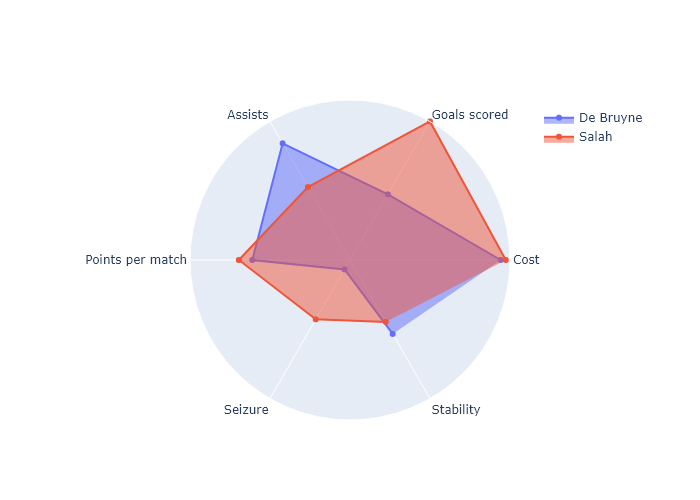
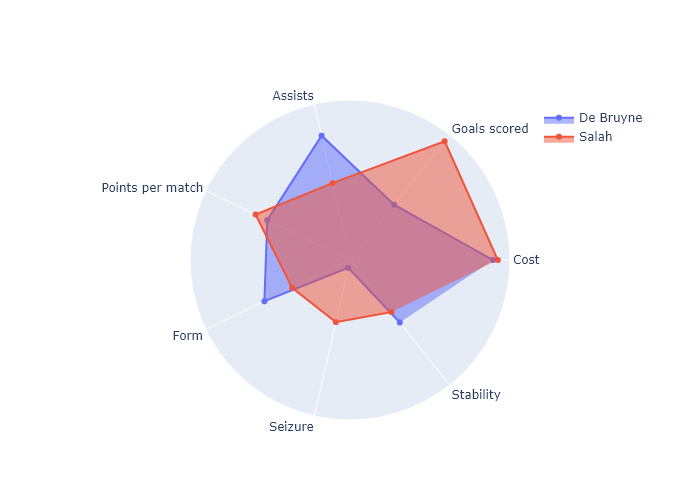
Radar plot update

diff --git a/Visualizing.py b/Visualizing.py
@@ -157,6 +157,10 @@ worst10_seizing_players = seizing_players.tail(10)
 
 # SECTION 2.b - HEAD 2 HEAD PLAYER COMPARISON
 
+# Define the two player name you want to compare
+name1 = 'De Bruyne'
+name2 = 'Salah'
+
 # Which player is better - player A or player B?
 # This question is answered by creating a radar plot comparing two players by multiple aspects
 
@@ -164,23 +168,24 @@ worst10_seizing_players = seizing_players.tail(10)
 categories = ['Cost',
               'Goals scored',
               'Assists',
-              'Points per match']
+              'Points per match',
+              'Form']
 
 # Create a new dataframe containing only the desired categories
 radar_data = CM_data[['Player'] + categories]
 
 # Create a list of each player stats
-De_Bruyne = radar_data[radar_data['Player'] == 'De Bruyne'].values.tolist()[0]
-Salah = radar_data[radar_data['Player'] == 'Salah'].values.tolist()[0]
+Player1 = radar_data[radar_data['Player'] == name1].values.tolist()[0]
+Player2 = radar_data[radar_data['Player'] == name2].values.tolist()[0]
 
 # Append two more values to each player's list, using the stats we produced earlier: Seizure and Stability
 # Seizure
-De_Bruyne.append(seizing_players['Seizure'][seizing_players['Player'] == 'De Bruyne'].values[0])
-Salah.append(seizing_players['Seizure'][seizing_players['Player'] == 'Salah'].values[0])
+Player1.append(seizing_players['Seizure'][seizing_players['Player'] == name1].values[0])
+Player2.append(seizing_players['Seizure'][seizing_players['Player'] == name2].values[0])
 
 # Stability
-De_Bruyne.append(stable_players['Stability'][stable_players.index == 'De Bruyne'].values[0]*10)
-Salah.append(stable_players['Stability'][stable_players.index == 'Salah'].values[0]*10)
+Player1.append(stable_players['Stability'][stable_players.index == name1].values[0]*10)
+Player2.append(stable_players['Stability'][stable_players.index == name2].values[0]*10)
 
 # Update the categories names
 categories = categories + ['Seizure', 'Stability']
@@ -188,22 +193,22 @@ categories = categories + ['Seizure', 'Stability']
 radar = go.Figure()
 
 radar.add_trace(go.Scatterpolar(
-                r=De_Bruyne[1:],
+                r=Player1[1:],
                 theta=categories,
                 fill='toself',
-                name=De_Bruyne[0]))
+                name=Player1[0]))
 
 radar.add_trace(go.Scatterpolar(
-                r=Salah[1:],
+                r=Player2[1:],
                 theta=categories,
                 fill='toself',
-                name=Salah[0]))
+                name=Player2[0]))
 
 radar.update_layout(
   polar=dict(
     radialaxis=dict(
       visible=False,
-      range=[-6, 13]
+      range=[min(Player1[1:] + Player2[1:]) - 1, max(Player1[1:] + Player2[1:]) + 1]
     )),
   legend=dict(
       yanchor="top",
